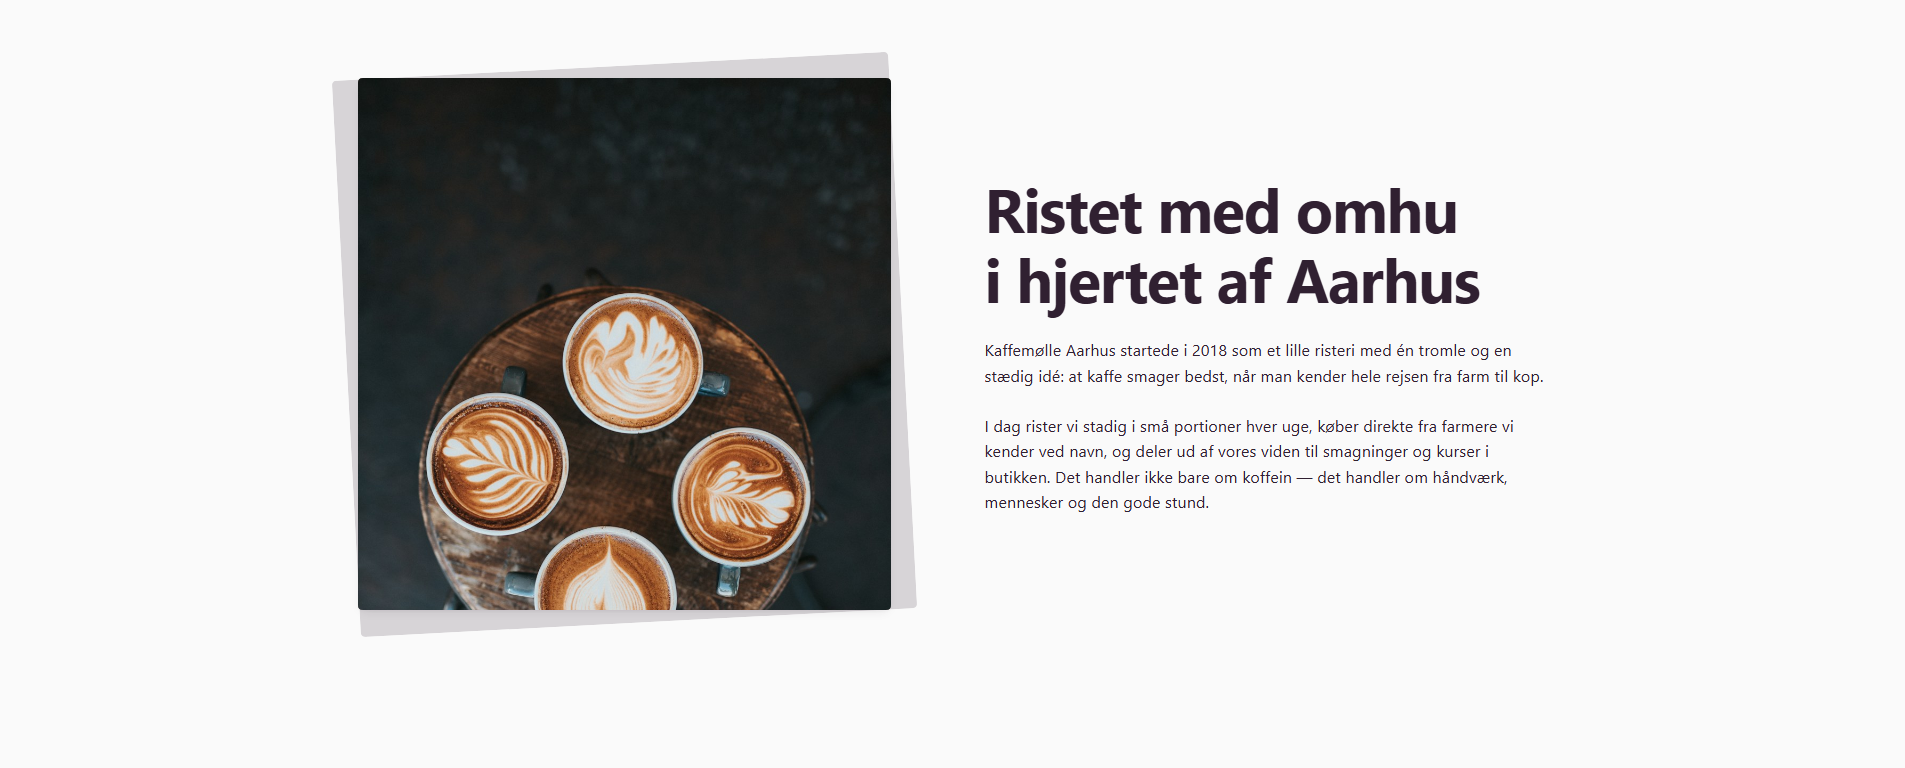
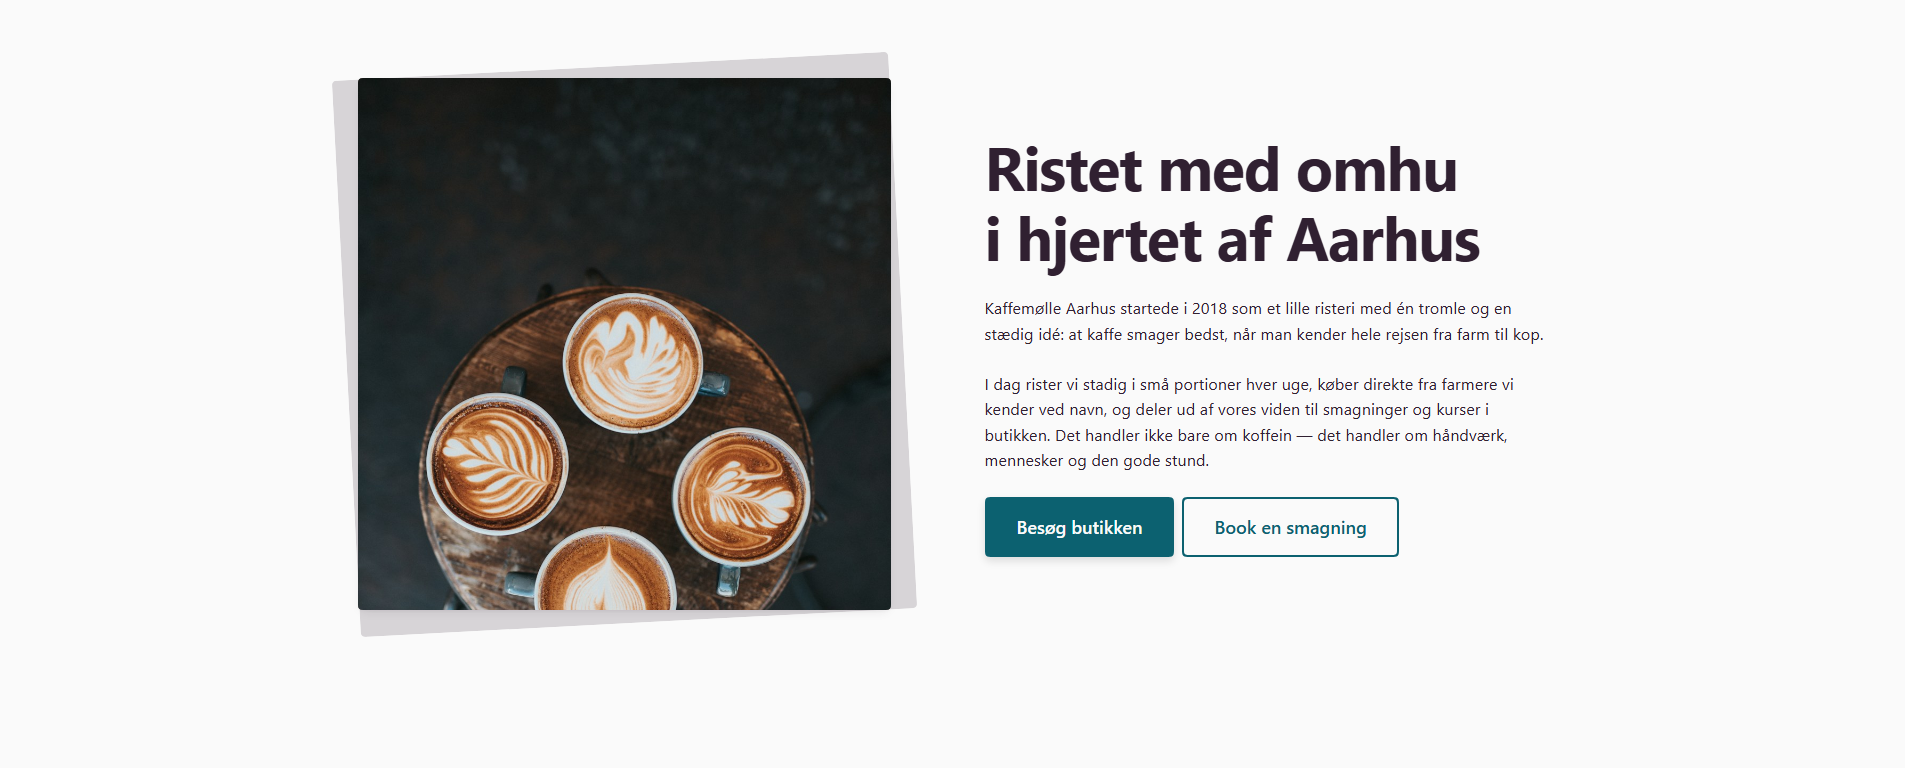
Hero cta and highligts add-on

Changed region(s): [[0.4955, 0.1875, 0.8052, 0.75]]

diff --git a/src/components/hero/parts/HeroAboutLayout.tsx b/src/components/hero/parts/HeroAboutLayout.tsx
@@ -2,15 +2,18 @@ import { isFilled, type Content } from "@prismicio/client";
 
 import { EviSection } from "@/src/components/layout/EviSection";
 import { EviSplit } from "@/src/components/layout/EviSplit";
+import { EviStack } from "@/src/components/layout/EviStack";
 import {
   EviBackdropImage,
   BACKDROP_FROM_LABEL,
 } from "@/src/components/ui/EviBackdropImage";
 import { EviHeadingGroup } from "@/src/components/typography/EviHeadingGroup";
+import { HeroCtaGroup } from "@/src/components/hero/parts/HeroCtaGroup";
 import {
   resolve_slice_context,
   type EviPageSliceContext,
 } from "@/src/lib/prismic/slices";
+import { is_link_filled } from "@/src/lib/prismic/links";
 
 export type HeroAboutLayoutProps = {
   slice: Content.HeroSliceAbout;
@@ -41,10 +44,14 @@ export function HeroAboutLayout({
   );
   const p = slice.primary;
 
+  const has_cta = is_link_filled(p.cta_link);
+  const has_cta_2 = is_link_filled(p.cta_link_secondary);
   if (
     !isFilled.richText(p.heading) &&
     !isFilled.richText(p.body) &&
-    !isFilled.image(p.image)
+    !isFilled.image(p.image) &&
+    !has_cta &&
+    !has_cta_2
   ) {
     return null;
   }
@@ -53,13 +60,22 @@ export function HeroAboutLayout({
   const imageTopOnMobile = p.mobile_order !== "Tekst øverst";
   const backdrop = BACKDROP_FROM_LABEL[p.backdrop ?? "Roteret"] ?? "rotated";
 
+  // CTA sidder INDE i indholds-kolonnen (under overskrift/tekst, ved siden af
+  // billedet) — ikke under hele sektionen. HeroCtaGroup rendrer intet når tom.
   const contentEl = (
-    <EviHeadingGroup
-      title={p.heading}
-      description={p.body}
-      linkResolver={linkResolver}
-      isHero={isHero}
-    />
+    <EviStack gap="lg" align="start">
+      <EviHeadingGroup
+        title={p.heading}
+        description={p.body}
+        linkResolver={linkResolver}
+        isHero={isHero}
+      />
+      <HeroCtaGroup
+        primary={p.cta_link}
+        secondary={p.cta_link_secondary}
+        linkResolver={linkResolver}
+      />
+    </EviStack>
   );
   const imageEl = (
     <EviBackdropImage

diff --git a/src/components/highlights/parts/HighlightsLayout.tsx b/src/components/highlights/parts/HighlightsLayout.tsx
@@ -16,6 +16,13 @@ import { has_rich_text } from "@/src/lib/prismic/fields";
 import { evi_list_text_class } from "@/src/lib/utils/card-text";
 import { cn } from "@/src/lib/utils/cn";
 
+// Prismic-label → EviSplit vertikal-align. Default centreret (uændret adfærd);
+// "Øverst" bruges når boksen er højere end teksten og centrering ser skæv ud.
+const CONTENT_ALIGN: Record<string, "start" | "center"> = {
+  Centreret: "center",
+  Øverst: "start",
+};
+
 export type HighlightsLayoutProps = {
   slice: Content.HighlightsSliceDefault;
   index: number;
@@ -28,8 +35,9 @@ export type HighlightsLayoutProps = {
  *
  * Det særlige: boksen centreres lodret mod BRØDTEKSTEN — ikke titel+tekst.
  * Titlen begrænses til venstre kolonnes bredde og sidder øverst; derunder en
- * `[brødtekst | boks]`-række med `items-center`, så boksens midte flugter med
- * brødtekstens (titlen trækker ikke midten skævt op). Boks-rækkerne genbruger
+ * `[brødtekst | boks]`-række hvis lodrette align `content_align` styrer (default
+ * `Centreret` — boksens midte flugter med brødtekstens; `Øverst` når boksen er
+ * højere end teksten). Boks-rækkerne genbruger
  * FeaturesSplit's ikon-række-mønster. Domain-part (Tailwind tilladt, R3.3).
  */
 export function HighlightsLayout({
@@ -43,6 +51,7 @@ export function HighlightsLayout({
     index,
   );
   const p = slice.primary;
+  const contentAlign = CONTENT_ALIGN[p.content_align ?? "Centreret"] ?? "center";
 
   // Kun punkter med tekst — tomme group-rækker rendres ikke.
   const points = (p.points ?? []).filter((pt) =>
@@ -69,7 +78,7 @@ export function HighlightsLayout({
             isHero={isHero}
           />
         </div>
-        <EviSplit preset="50-50" align="center">
+        <EviSplit preset="50-50" align={contentAlign}>
           <EviRichText
             field={p.body}
             linkResolver={linkResolver}

diff --git a/prismicio-types.d.ts b/prismicio-types.d.ts
@@ -1927,6 +1927,26 @@ export interface HeroSliceAboutPrimary {
 	body: prismic.RichTextField;
 	
 	/**
+	 * Call-to-action field in *Hero → About → Primary*
+	 *
+	 * - **Field Type**: Link
+	 * - **Placeholder**: *None*
+	 * - **API ID Path**: hero.about.primary.cta_link
+	 * - **Documentation**: https://prismic.io/docs/fields/link
+	 */
+	cta_link: prismic.LinkField<string, string, unknown, prismic.FieldState, never>;
+	
+	/**
+	 * Sekundær knap field in *Hero → About → Primary*
+	 *
+	 * - **Field Type**: Link
+	 * - **Placeholder**: *None*
+	 * - **API ID Path**: hero.about.primary.cta_link_secondary
+	 * - **Documentation**: https://prismic.io/docs/fields/link
+	 */
+	cta_link_secondary: prismic.LinkField<string, string, unknown, prismic.FieldState, never>;
+	
+	/**
 	 * Billede field in *Hero → About → Primary*
 	 *
 	 * - **Field Type**: Image
@@ -2094,6 +2114,17 @@ export interface HighlightsSliceDefaultPrimary {
 	 * - **Documentation**: https://prismic.io/docs/fields/select
 	 */
 	box_color: prismic.SelectField<"Neutral" | "Primær" | "Sekundær", "filled">;
+	
+	/**
+	 * Lodret justering field in *Highlights → Default → Primary*
+	 *
+	 * - **Field Type**: Select
+	 * - **Placeholder**: Hvordan tekst og boks flugter ved forskellig højde
+	 * - **Default Value**: Centreret
+	 * - **API ID Path**: highlights.default.primary.content_align
+	 * - **Documentation**: https://prismic.io/docs/fields/select
+	 */
+	content_align: prismic.SelectField<"Centreret" | "Øverst", "filled">;
 	
 	/**
 	 * Baggrundstema field in *Highlights → Default → Primary*

diff --git a/slices/Hero/mock.ts b/slices/Hero/mock.ts
@@ -142,6 +142,18 @@ export const mock: Record<string, Content.HeroSlice> = {
         },
       ],
       // eslint-disable-next-line @typescript-eslint/consistent-type-assertions
+      cta_link: {
+        link_type: "Web" as const,
+        url: "#",
+        text: "Besøg butikken",
+      } as Content.HeroSliceAboutPrimary["cta_link"],
+      // eslint-disable-next-line @typescript-eslint/consistent-type-assertions
+      cta_link_secondary: {
+        link_type: "Web" as const,
+        url: "#",
+        text: "Book en smagning",
+      } as Content.HeroSliceAboutPrimary["cta_link_secondary"],
+      // eslint-disable-next-line @typescript-eslint/consistent-type-assertions
       image: {
         id: "mock-hero-about-image",
         url: "https://images.unsplash.com/photo-1529892485617-25f63cd7b1e9?fit=crop&w=1000&h=1000",

diff --git a/slices/Highlights/mock.ts b/slices/Highlights/mock.ts
@@ -70,6 +70,7 @@ export const mock: Record<string, Content.HighlightsSlice> = {
         ),
       ],
       box_color: "Neutral",
+      content_align: "Øverst",
       background_theme: "Lys",
     } as Content.HighlightsSliceDefaultPrimary,
   },
